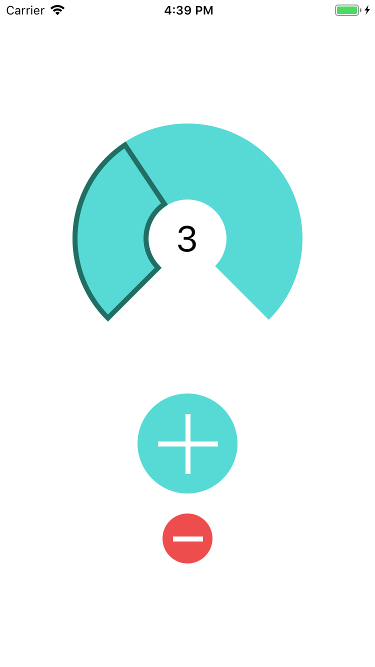
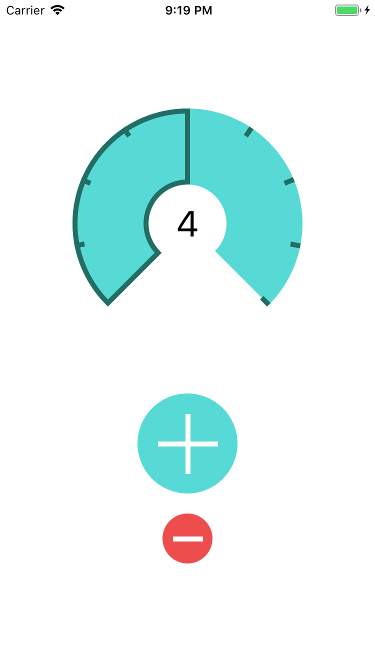
updated screen shots

Changed region(s): [[0.176, 0.1499, 0.8213, 0.4798], [0.44, 0.0, 0.5867, 0.03]]

diff --git a/readme.md b/readme.md
@@ -5,5 +5,8 @@ you've consumed daily.
 Also, is an example of how to draw custom view components and make them
 configurable in the XCode IDE.
 
-![Screen](https://raw.githubusercontent.com/oshea00/WaterTracker-IOS/master/screen.png)
+| Meter             |  Graph  (tap to toggle) |
+|:-------------------:|:--------------------:|
+| ![Screen](https://raw.githubusercontent.com/oshea00/WaterTracker-IOS/master/screen.png) |  ![Screen](https://raw.githubusercontent.com/oshea00/WaterTracker-IOS/master/screen1.png) |
+
 
